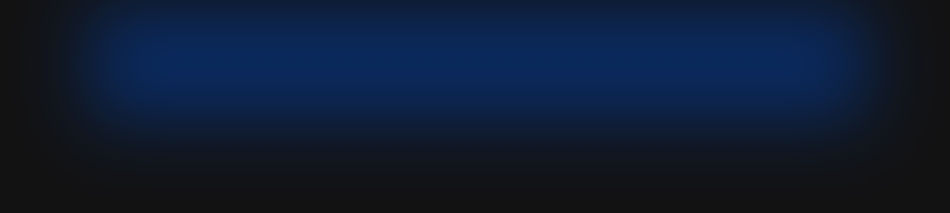
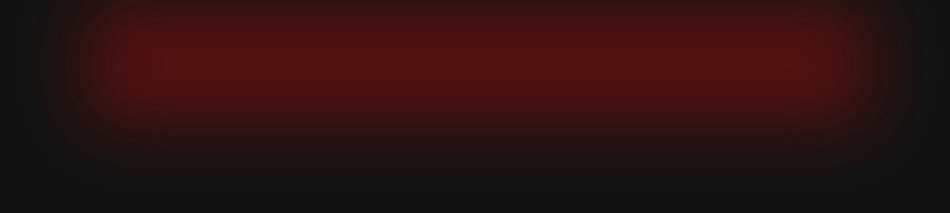
update

diff --git a/public/css/main.css b/public/css/main.css
@@ -86,7 +86,6 @@ button {
   font-weight: 700;
   letter-spacing: 4px;
   text-align: center;
-  text-transform: uppercase;
 }
 
 .logo--smaller {
@@ -115,7 +114,7 @@ button {
 
 .search__field {
   background-color: #121213;
-  border: solid 1px #7171d8;
+  border: solid 1px #ff2400;
   border-radius: 4px;
   box-sizing: border-box;
   color: #f9f9f9;
@@ -172,7 +171,7 @@ button {
   position: absolute;
   top: 50%;
   left: 19%;
-    
+
   width: 20px;
   height: 1px;
 
@@ -266,7 +265,7 @@ button {
   margin-right: 32px;
   padding: 0;
 
-  color: #ffffff;  
+  color: #ffffff;
   text-decoration: none;
 
   background-color: transparent;
@@ -281,7 +280,7 @@ button {
 }
 
 .sort__button--active {
-  color: #ffe800;  
+  color: #ffe800;
 }
 
 .films {
@@ -997,7 +996,7 @@ button {
 }
 .statistic__rank {
   display: flex;
-  align-items: center; 
+  align-items: center;
   margin: 0;
   margin-bottom: 34px;
   font-size: 50px;

diff --git a/public/index.html b/public/index.html
@@ -7,12 +7,12 @@
   <link href="https://fonts.googleapis.com/css?family=Open+Sans:400,700,800&amp;subset=cyrillic-ext" rel="stylesheet">
   <link rel="stylesheet" type="text/css" media="screen" href="./css/normalize.css" />
   <link rel="stylesheet" type="text/css" media="screen" href="./css/main.css" />
-  <title>Cinemaddict</title>
+  <title>ПоискКино</title>
 </head>
 <body>
 
 <header class="header">
-  <h1 class="header__logo logo">Cinemaddict</h1>
+  <h1 class="header__logo logo">ПоискКино</h1>
 
 </header>
 
@@ -21,7 +21,7 @@
 </main>
 
 <footer class="footer">
-  <section class="footer__logo logo logo--smaller">Cinemaddict</section>
+  <section class="footer__logo logo logo--smaller">ПоискКино</section>
   <section class="footer__statistics">
     <p>130 291 movies inside</p>
   </section>

diff --git a/src/components/search.js b/src/components/search.js
@@ -5,7 +5,7 @@ class Search extends AbstractComponent {
   getTemplate() {
     return `<form class="header__search search">
           <input type="text" name="search" class="search__field" placeholder="Search movies">
-          <svg fill="#7171D8" class="search__film-icon" xmlns="http://www.w3.org/2000/svg" width="20" height="19" viewBox="0 0 20 19">
+          <svg fill="#ff2400" class="search__film-icon" xmlns="http://www.w3.org/2000/svg" width="20" height="19" viewBox="0 0 20 19">
             <path fill-rule="nonzero" d="M2 0v4.524h2.833V0h11.334v4.524H19V0h1v19h-1v-4.524h-2.833V19H4.833v-4.524H2V19H0V0h2zm0 7.238v4.524h2.833V7.238H2zm14.167 0v4.524H19V7.238h-2.833z"/>
           </svg>
           <button type="submit" class="visually-hidden">Search</button>

diff --git a/Readme.md b/Readme.md
@@ -1,7 +1,7 @@
-# Личный проект «Киноман» [![Build status][travis-image]][travis-url]
+# Личный проект «ПоискКино» 
 
 * Студент: [Roman Andreev](https://up.htmlacademy.ru/ecmascript/10/user/590097).
-* Наставник: [Artyom Prikhodko](https://htmlacademy.ru/profile/id1012525).
+
 
 ---
 
@@ -10,43 +10,3 @@ _`.editorconfig`, `.gitattributes`, `.gitignore`, `.travis.yml`, `package.json`.
 
 ---
 
-### Памятка
-
-#### 1. Зарегистрируйтесь на Гитхабе
-
-Если у вас ещё нет аккаунта на [github.com](https://github.com/join), скорее зарегистрируйтесь.
-
-#### 2. Создайте форк
-
-Откройте репозиторий и нажмите кнопку «Fork» в правом верхнем углу. Репозиторий из Академии будет скопирован в ваш аккаунт.
-
-<img width="769" alt="Press 'Fork'" src="https://cloud.githubusercontent.com/assets/259739/20264045/a1ddbf40-aa7a-11e6-9a1a-724a1c0123c8.png">
-
-Получится вот так:
-
-<img width="769" alt="Forked" src="https://cloud.githubusercontent.com/assets/259739/20264122/f63219a6-aa7a-11e6-945a-89818fc7c014.png">
-
-#### 3. Клонируйте репозиторий на свой компьютер
-
-Будьте внимательны: нужно клонировать свой репозиторий (форк), а не репозиторий Академии. Также обратите внимание, что клонировать репозиторий нужно через SSH, а не через HTTPS. Нажмите зелёную кнопку в правой части экрана, чтобы скопировать SSH-адрес вашего репозитория:
-
-<img width="769" alt="SSH" src="https://cloud.githubusercontent.com/assets/259739/20264180/42704126-aa7b-11e6-9ab4-73372b812a53.png">
-
-Клонировать репозиторий можно так:
-
-```
-git clone SSH-адрес_вашего_форка
-```
-
-Команда клонирует репозиторий на ваш компьютер и подготовит всё необходимое для старта работы.
-
-#### 4. Начинайте обучение!
-
----
-
-<a href="https://htmlacademy.ru/intensive/ecmascript"><img align="left" width="50" height="50" title="HTML Academy" src="https://up.htmlacademy.ru/static/img/intensive/ecmascript/logo-for-github.svg"></a>
-
-Репозиторий создан для обучения на интенсивном онлайн‑курсе «[Профессиональный JavaScript, уровень 2](https://htmlacademy.ru/intensive/ecmascript)» от [HTML Academy](https://htmlacademy.ru).
-
-[travis-image]: https://travis-ci.com/htmlacademy-ecmascript/590097-cinemaddict-10.svg?branch=master
-[travis-url]: https://travis-ci.com/htmlacademy-ecmascript/590097-cinemaddict-10
